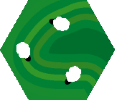
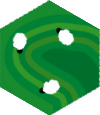
Adding tile images and adding random turn order generation

diff --git a/Settlers of Catan/src/soc/code/renderPackage/GamePanel.java b/Settlers of Catan/src/soc/code/renderPackage/GamePanel.java
@@ -285,26 +285,50 @@ public class GamePanel extends JPanel implements MouseListener, MouseMotionListe
 				for (int n = 0; n < gameBoard.numberOfColumns(i + 2); n++) {
 					switch (gameBoard.getTileAt(i + 2, n).getType()) {
 					case WOOD:
-						g.setColor(Color.GREEN);
+						g.drawImage(Tile.getT_WoodImage(),
+								(int) ((currentXRow += Tile.TILE_WIDTH) + tileZeroPoint.getX() - Tile.TILE_WIDTH / 2),
+								(int) (STARTING_Y + (i + 2) * 3 * Tile.TILE_HEIGHT / 4 + tileZeroPoint.getY()
+										- Tile.TILE_HEIGHT / 2),
+								null);
 						break;
 					case WHEAT:
-						g.setColor(Color.YELLOW);
+						g.drawImage(Tile.getT_WheatImage(),
+								(int) ((currentXRow += Tile.TILE_WIDTH) + tileZeroPoint.getX() - Tile.TILE_WIDTH / 2),
+								(int) (STARTING_Y + (i + 2) * 3 * Tile.TILE_HEIGHT / 4 + tileZeroPoint.getY()
+										- Tile.TILE_HEIGHT / 2),
+								null);
 						break;
 					case BRICK:
-						g.setColor(Color.RED);
+						g.drawImage(Tile.getT_BrickImage(),
+								(int) ((currentXRow += Tile.TILE_WIDTH) + tileZeroPoint.getX() - Tile.TILE_WIDTH / 2),
+								(int) (STARTING_Y + (i + 2) * 3 * Tile.TILE_HEIGHT / 4 + tileZeroPoint.getY()
+										- Tile.TILE_HEIGHT / 2),
+								null);
 						break;
 					case ORE:
-						g.setColor(Color.DARK_GRAY);
+						g.drawImage(Tile.getT_OreImage(),
+								(int) ((currentXRow += Tile.TILE_WIDTH) + tileZeroPoint.getX() - Tile.TILE_WIDTH / 2),
+								(int) (STARTING_Y + (i + 2) * 3 * Tile.TILE_HEIGHT / 4 + tileZeroPoint.getY()
+										- Tile.TILE_HEIGHT / 2),
+								null);
 						break;
 					case SHEEP:
-						g.setColor(Color.WHITE);
+						g.drawImage(Tile.getT_SheepImage(),
+								(int) ((currentXRow += Tile.TILE_WIDTH) + tileZeroPoint.getX() - Tile.TILE_WIDTH / 2),
+								(int) (STARTING_Y + (i + 2) * 3 * Tile.TILE_HEIGHT / 4 + tileZeroPoint.getY()
+										- Tile.TILE_HEIGHT / 2),
+								null);
 						break;
 					case DESERT:
-						g.setColor(Color.LIGHT_GRAY);
+						g.drawImage(Tile.getT_WheatImage(),
+								(int) ((currentXRow += Tile.TILE_WIDTH) + tileZeroPoint.getX() - Tile.TILE_WIDTH / 2),
+								(int) (STARTING_Y + (i + 2) * 3 * Tile.TILE_HEIGHT / 4 + tileZeroPoint.getY()
+										- Tile.TILE_HEIGHT / 2),
+								null);
 						break;
 					}
 					drawHexagon((Graphics2D) g, Tile.TILE_HEIGHT / 2,
-							(int) ((currentXRow += Tile.TILE_WIDTH) + tileZeroPoint.getX()),
+							(int) ((currentXRow) + tileZeroPoint.getX()),
 							(int) (STARTING_Y + (i + 2) * 3 * Tile.TILE_HEIGHT / 4 + tileZeroPoint.getY()));
 				}
 			}
@@ -331,8 +355,8 @@ public class GamePanel extends JPanel implements MouseListener, MouseMotionListe
 		double yOffset = sideLength * Math.sqrt(3) / 2;
 		int[] yValues = { centerY, (int) (centerY - yOffset), (int) (centerY - yOffset), centerY,
 				(int) (centerY + yOffset), (int) (centerY + yOffset) };
-		g2.fillPolygon(yValues, xValues, 6);
-		g2.setColor(Color.BLACK);
+		//g2.fillPolygon(yValues, xValues, 6);
+		g2.setColor(Color.GRAY);
 		g2.setStroke(new BasicStroke(6));
 		g2.drawPolygon(yValues, xValues, 6);
 		g2.setStroke(new BasicStroke(1));

diff --git a/Settlers of Catan/src/soc/code/runtimePackage/GameRuntime.java b/Settlers of Catan/src/soc/code/runtimePackage/GameRuntime.java
@@ -236,6 +236,10 @@ public class GameRuntime {
 			} else if (lastMessage.equals("clear")) {
 				// clearing the console window.
 				console.getOutputConsole().setText("");
+			} else if (lastMessage.equals("testBoard")) {
+				// clearing the console window.
+				gameBoard = new Board();
+				gui = new GUI(gameBoard, clientManager, isHost);
 			} else if (lastMessage.length() > 5 && lastMessage.substring(0, 4).equals("kick")) {
 				// kicking a player from the server.
 				if (isHost)
